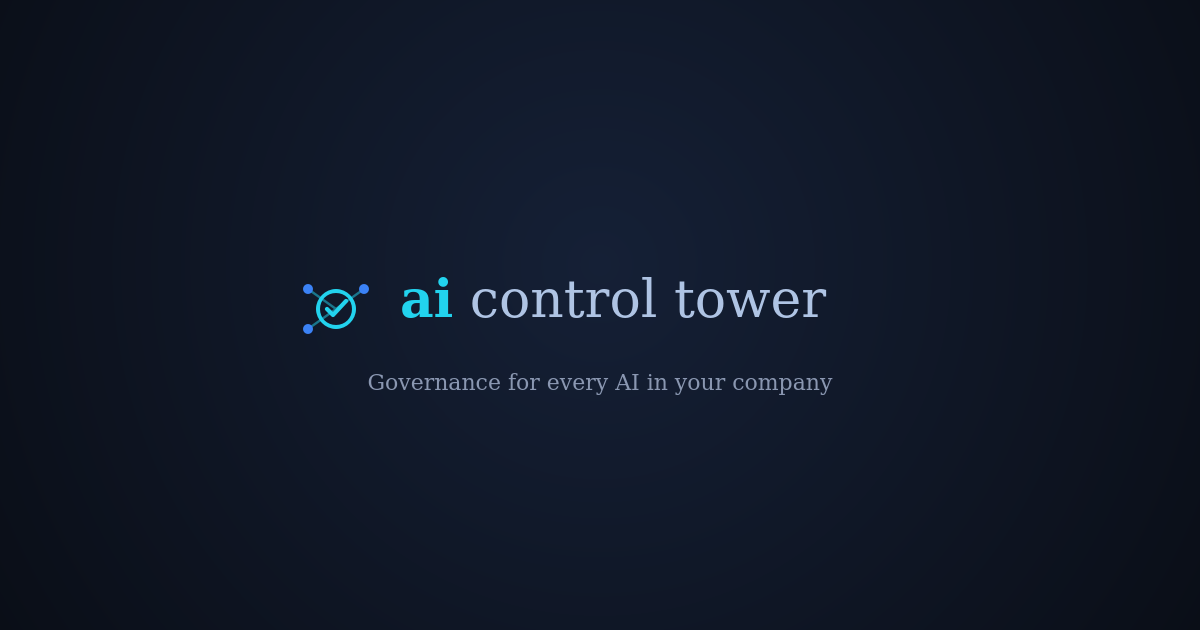
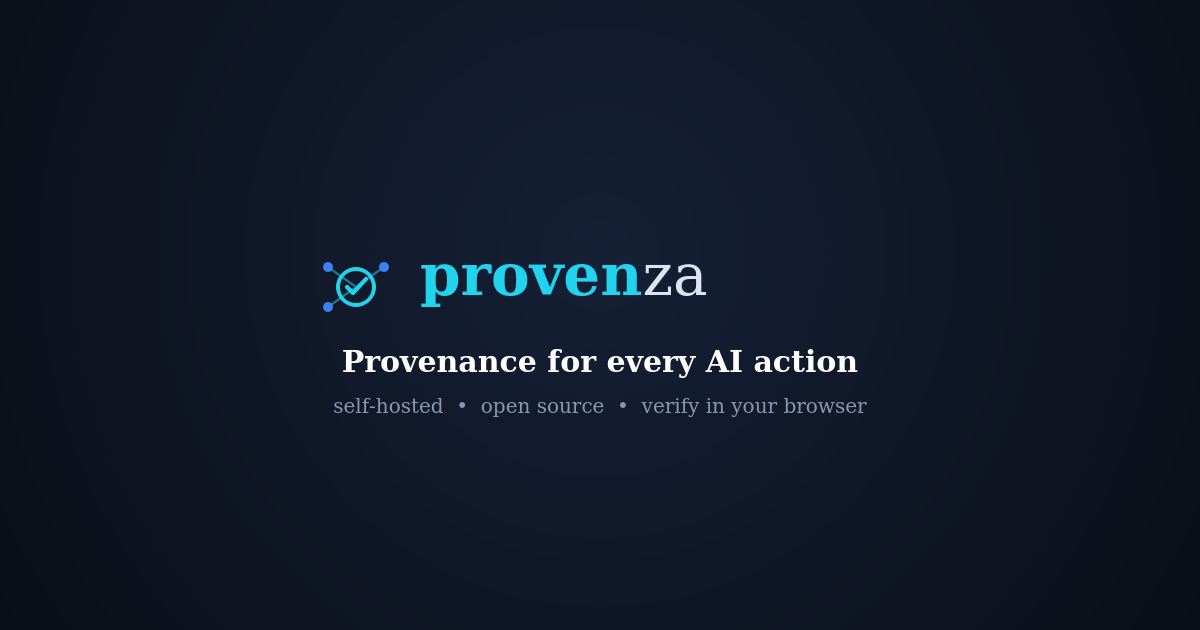
rebrand: AI Control Tower -> Provenza
New name (from 'provenance') to avoid a clash with ServiceNow's product
of the same name and to sharpen the positioning around verifiable
provenance of AI actions.

- logo, sidebar, login/register, page metadata and OG tags
- README title, tagline ('Provenance for every AI action'), logo image
- EN/UZ strings

Changed region(s): [[0.2775, 0.5429, 0.74, 0.6635], [0.2467, 0.4222, 0.6783, 0.5429]]

diff --git a/frontend/app/layout.tsx b/frontend/app/layout.tsx
@@ -16,18 +16,18 @@ const geistMono = Geist_Mono({
 
 export const metadata: Metadata = {
   metadataBase: new URL("https://stickstock.lol"),
-  title: "AI Control Tower",
-  description: "Governance for every AI in your company — from shadow AI to autonomous agents, with verifiable accountability.",
+  title: "Provenza",
+  description: "Provenance for every AI action — self-hosted governance with verifiable accountability, from shadow AI to autonomous agents.",
   openGraph: {
-    title: "AI Control Tower",
-    description: "Governance for every AI in your company — from shadow AI to autonomous agents, with verifiable accountability.",
+    title: "Provenza",
+    description: "Provenance for every AI action — self-hosted governance with verifiable accountability, from shadow AI to autonomous agents.",
     type: "website",
-    images: [{ url: "/og-image.png", width: 1200, height: 630, alt: "AI Control Tower" }],
+    images: [{ url: "/og-image.png", width: 1200, height: 630, alt: "Provenza" }],
   },
   twitter: {
     card: "summary_large_image",
-    title: "AI Control Tower",
-    description: "Governance for every AI in your company, with verifiable accountability.",
+    title: "Provenza",
+    description: "Provenance for every AI action — verifiable, self-hosted AI governance.",
     images: ["/og-image.png"],
   },
 };

diff --git a/frontend/components/Logo.tsx b/frontend/components/Logo.tsx
@@ -49,8 +49,7 @@ export function Logo({
 
       {!collapsed && (
         <div style={{ fontSize: font, fontWeight: 600, letterSpacing: "0.02em", whiteSpace: "nowrap" }}>
-          <span style={{ color: "#22D3EE" }}>ai</span>{" "}
-          <span style={{ color: "#AFC4E4", fontWeight: 500 }}>control tower</span>
+          <span style={{ color: "#22D3EE" }}>proven</span><span style={{ color: "#AFC4E4", fontWeight: 500 }}>za</span>
         </div>
       )}
     </div>

diff --git a/README.md b/README.md
@@ -1,13 +1,14 @@
 <p align="center">
-  <img src="docs/hero-graph.svg" width="720" alt="AI Control Tower — live delegation graph with in-browser signature verification">
+  <img src="docs/hero-graph.svg" width="720" alt="Provenza — live delegation graph with in-browser signature verification">
 </p>
 
 <p align="center">
-  <img src="ACT-logo-full.png" width="360" alt="AI Control Tower">
+  <img src="provenza-logo-full.png" width="330" alt="Provenza">
 </p>
 
 <p align="center">
-  <b>See and govern every AI in your company.</b><br>
+  <b>Provenance for every AI action.</b><br>
+  <sub>See and govern every AI in your company — with provable accountability.</sub><br>
   From an employee pasting into ChatGPT to autonomous agents acting on their own —<br>
   watch it, control it, and <b>prove</b> every decision was authorized. Self-hosted, no external SaaS.
 </p>
@@ -31,7 +32,7 @@
 
 > **AI entered your company through every door at once** — shadow AI on laptops,
 > autonomous agents delegating to each other, and no way to *prove* who authorized
-> what. Most governance tools watch one door. **AI Control Tower covers them all,
+> what. Most governance tools watch one door. **Provenza covers them all,
 > under one set of rules.**
 
 ## ✨ What makes it different
